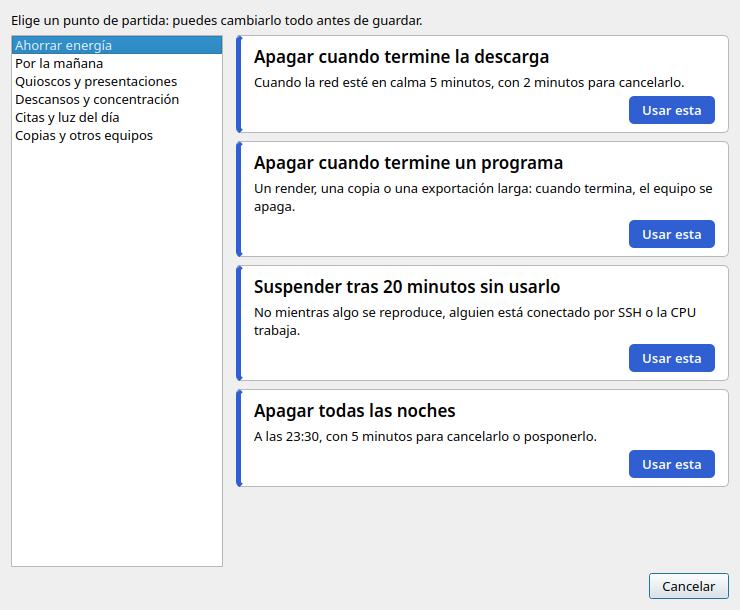
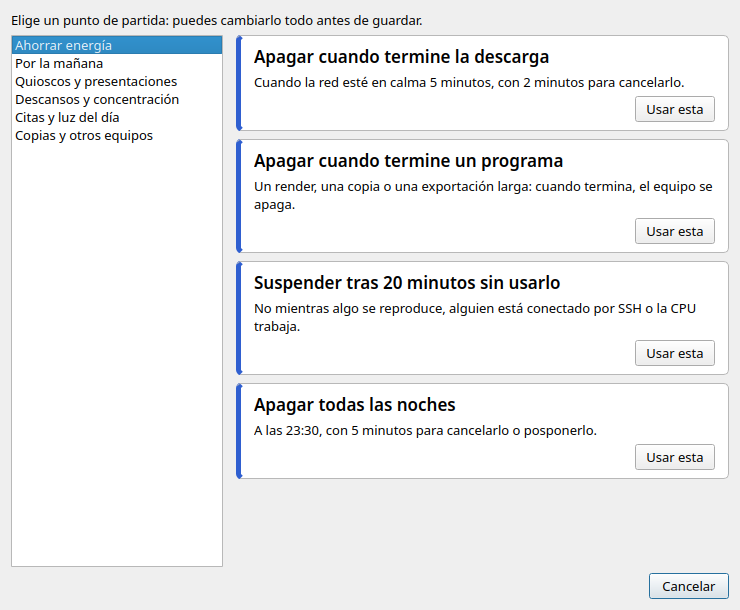
style(gallery): one highlighted button per screen, not one per card
Four blue "Use this" buttons competed with each other, so none of them read as
the action. The cards' coloured stripe already leads the eye.

Changed region(s): [[0.3108, 0.1557, 0.9946, 0.5607], [0.3108, 0.5607, 0.9946, 0.7475], [0.3108, 0.7164, 0.9946, 0.8098]]

diff --git a/src/powerclock/gui/gallery.py b/src/powerclock/gui/gallery.py
@@ -33,7 +33,9 @@ class TemplateCard(QFrame):
         style.use_scale(title, 1, bold=True)
         text = QLabel(template.description)
         text.setWordWrap(True)
-        self.button = style.primary(QPushButton(_("Use this")))
+        # Every card offers the same thing: one highlighted button per screen, not one
+        # per card, or none of them stands out.
+        self.button = QPushButton(_("Use this"))
         self.button.clicked.connect(lambda: use.choose(template))
         row = QHBoxLayout()
         row.addStretch(1)
